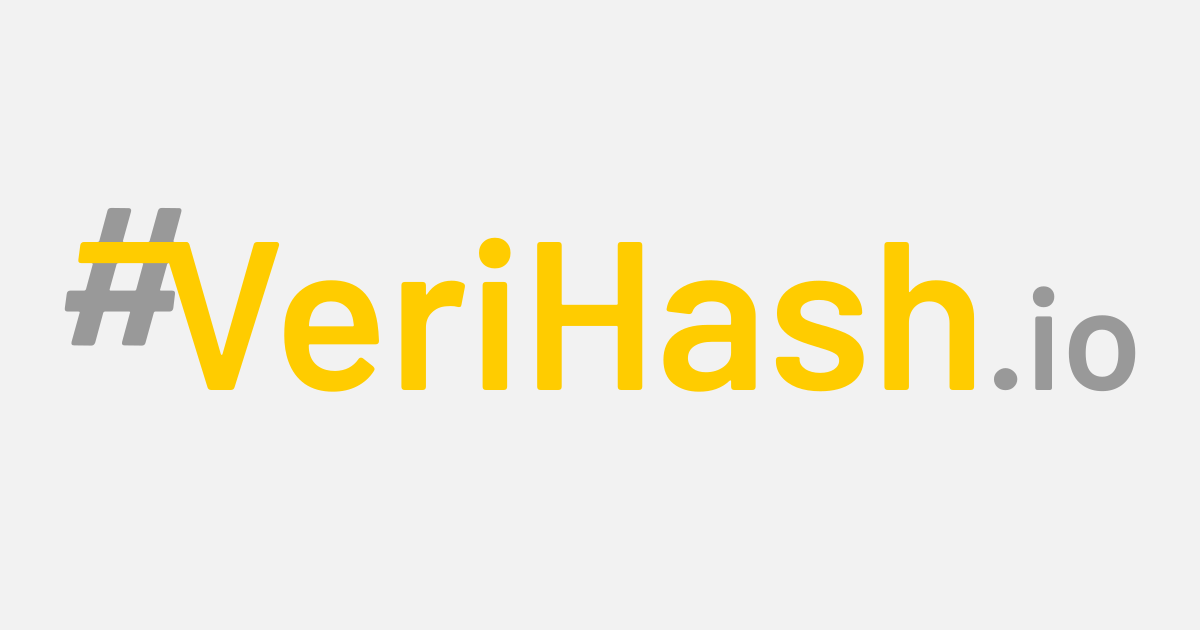
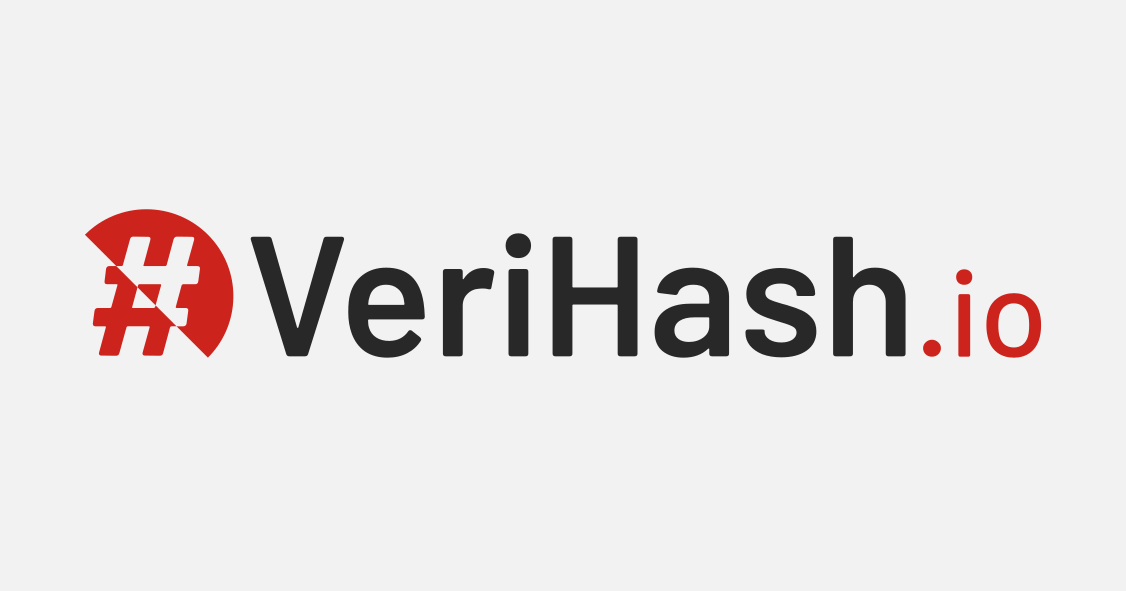
Changed stuff

Changed region(s): [[0.0311, 0.3046, 0.9636, 0.6396]]

diff --git a/index.html b/index.html
@@ -57,32 +57,31 @@
 		<wrapper>
 
 			<header>
-			<a href="/"><img class="title" src="logo.svg" /></a>
+			<a href="/"><img class="title" src="logo_light_bg.svg" /></a>
 			</header>
 
 			<content>
 
 				<h2>About</h2>
 
-				<p>We bring with us a total of 25+ years of experience running various infrastructure deployments from startups, to Fortune 500, to architecting and integrating infrastructure and processing capabilities for US Fed Gov contracts.</p>
-				<p style="font-weight:600;">We know we can bring the same level of rigor to help secure and diversify your Crypto platform.</p>
-				<p>We have deep experience running different compute orchestration platforms and pride ourselves on running efficient, secure, and high available systems.</p>
+				<p>We bring multiple decades of experience architecting and administrating infrastructure in many deployment environments ranging from on-premesis startups to multi-cloud Fortune 500 companies. We write software and scripts, perform security audits and implementations, run war rooms, and plan and execute large-scale cross-functional enterprise migrations and upgrades.</p>
+				<p style="font-weight: 600;">We know we can bring the same level of rigor to help secure, solidify, and diversify your Crypto platform.</p>
+				<p>We have deep experience in diverse compute orchestration platforms and pride ourselves on developing and running efficient, secure, and highly available systems.</p>
 
 				<h2>Contact</h2>
 
-				<p>We use <a href="https://github.com/verihash" target="_new">Github</a> for any open source products or solutions, and to host this page itself.</p>
-				<p>Feel free to email us at <a href="mailto:info@verihash.io">info@verihash.io</a>. We will try to reply as soon as possible.</p>
+				<p>Feel free to email us at <a href="mailto:info@verihash.io">info@verihash.io</a> for more information on services offered.</p>
 
 				<h2>Membership</h2>
 
-				<p><a href="https://www.washingtontechnology.org/blockchain/" target="_new"><img src="wtia_light_bg.png" style="width:150px; margin-right: 20px;"/></a>We are a proud member of the <a href="https://www.washingtontechnology.org/blockchain/" target="_new">WTIA Cascadia Blockchain Association</a></p>
+				<p><a href="https://www.washingtontechnology.org/blockchain/" target="_new"><img src="wtia_light_bg.png" style="width:150px; margin-right: 1em;"/></a>We are a proud member of the <a href="https://www.washingtontechnology.org/blockchain/" target="_new">WTIA Cascadia Blockchain Association</a></p>
 
 			</content>
 
 		</wrapper>
 
 		<footer>
-			<img class="logo" src="logo_circle.svg"/>
+			<img class="logo" src="logo_plain_red.svg"/>
 			<social>
 				<a class="email" href="mailto:info@verihash.io" title="Email VeriHash" target="_new">
 					<img src="email.svg" />

diff --git a/main.css b/main.css
@@ -21,6 +21,7 @@ body
 h2
 {
 	margin-top: 2em;
+	text-align: center;
 }
 
 h2:first-of-type
@@ -32,13 +33,13 @@ h2:first-of-type
 
 a
 {
-	color: #ff4b00;
-	text-decoration: none;
+	color: #cc241d;
+	text-decoration: underline;
 }
 
 a:hover
 {
-	color: #268bd2;
+	color: #808080;
 	text-decoration: none;
 }
 
@@ -121,16 +122,17 @@ footer
 	display: block;
 	flex-shrink: 0;
 	line-height: 1em;
-	margin-top: 2em;
-	padding: 2.5em 0 2em 0;
+	margin-top: 1em;
+	padding: 3em 0 2em 0;
 	text-align: center;
 	width: 100%;
 }
 
 footer img.logo
 {
-	height: 250px;
-	width: 250px;
+	height: 150px;
+	width: 150px;
+	margin-bottom: 0.5em;
 }
 
 footer p
@@ -143,7 +145,7 @@ footer p
 social
 {
 	display: block;
-	margin: 1.5em auto;
+	margin: 1.5em auto 2em auto;
 }
 
 social a
